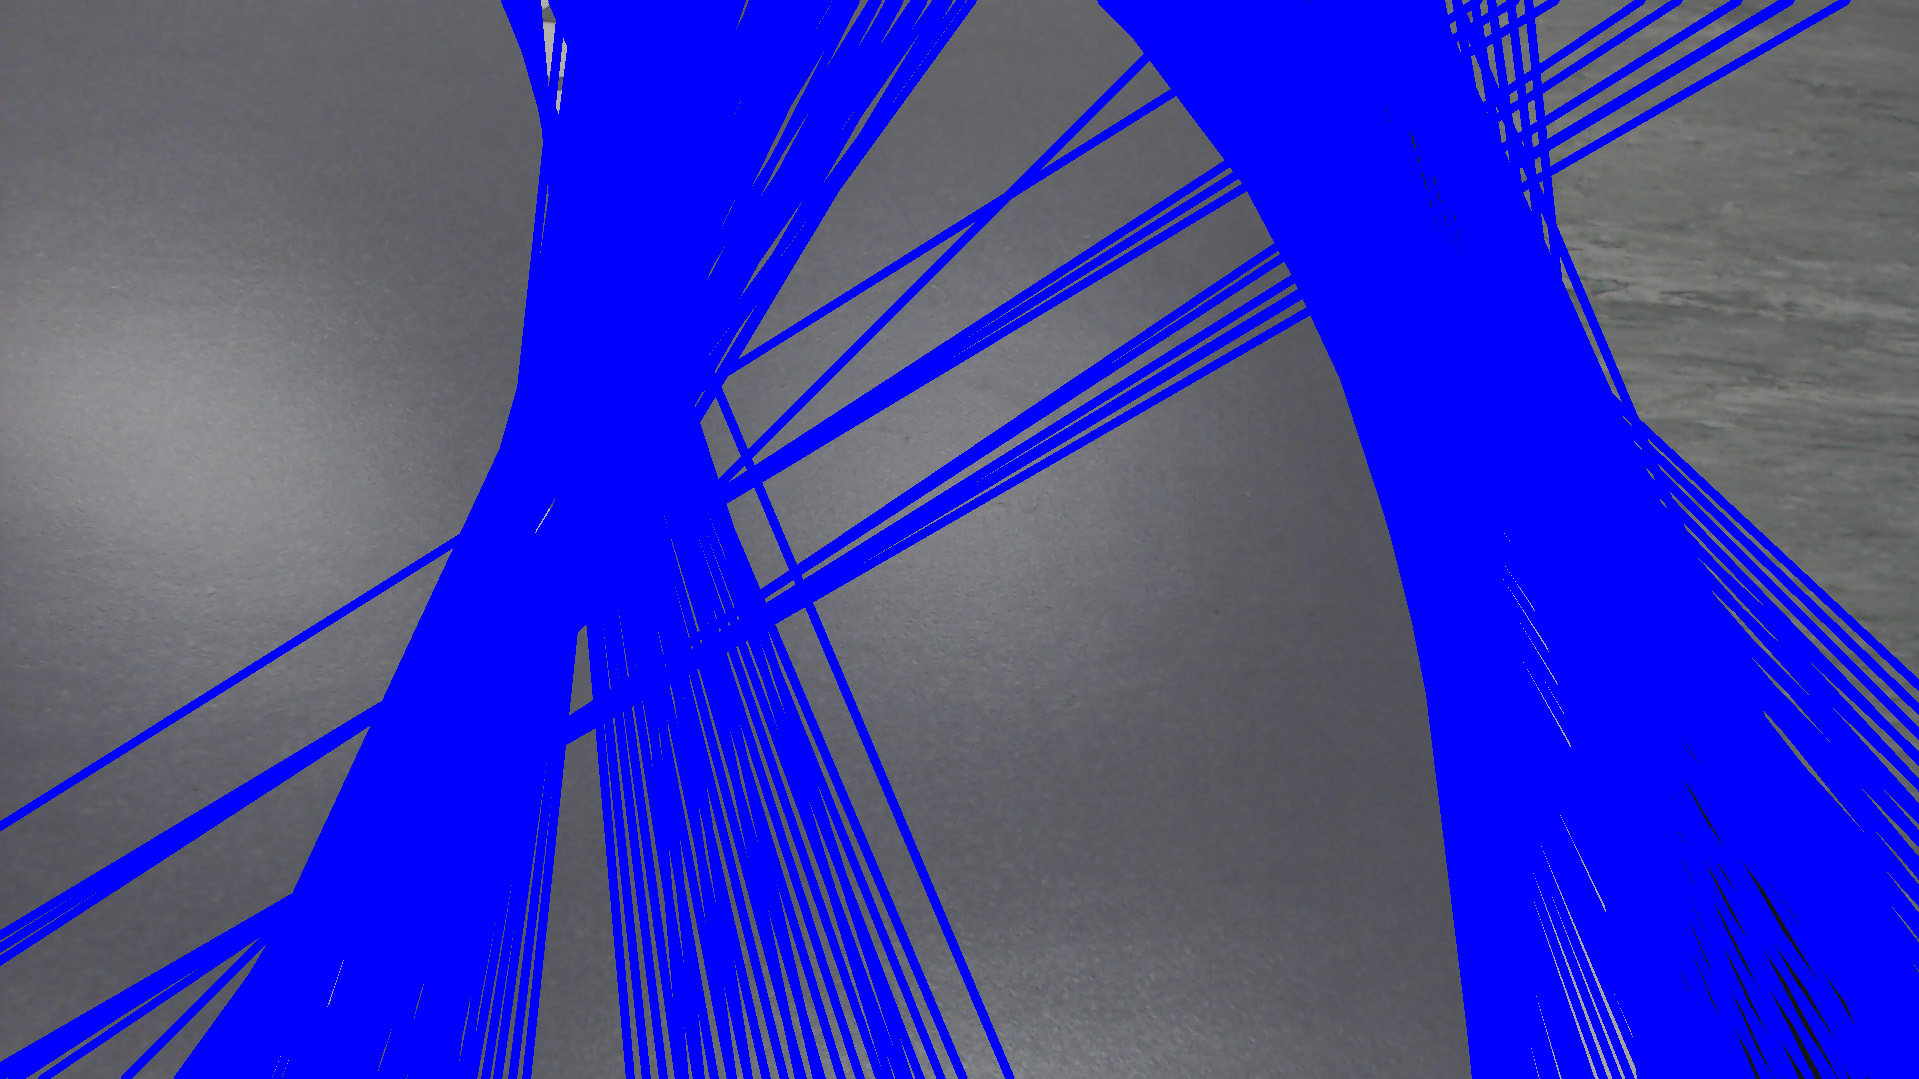
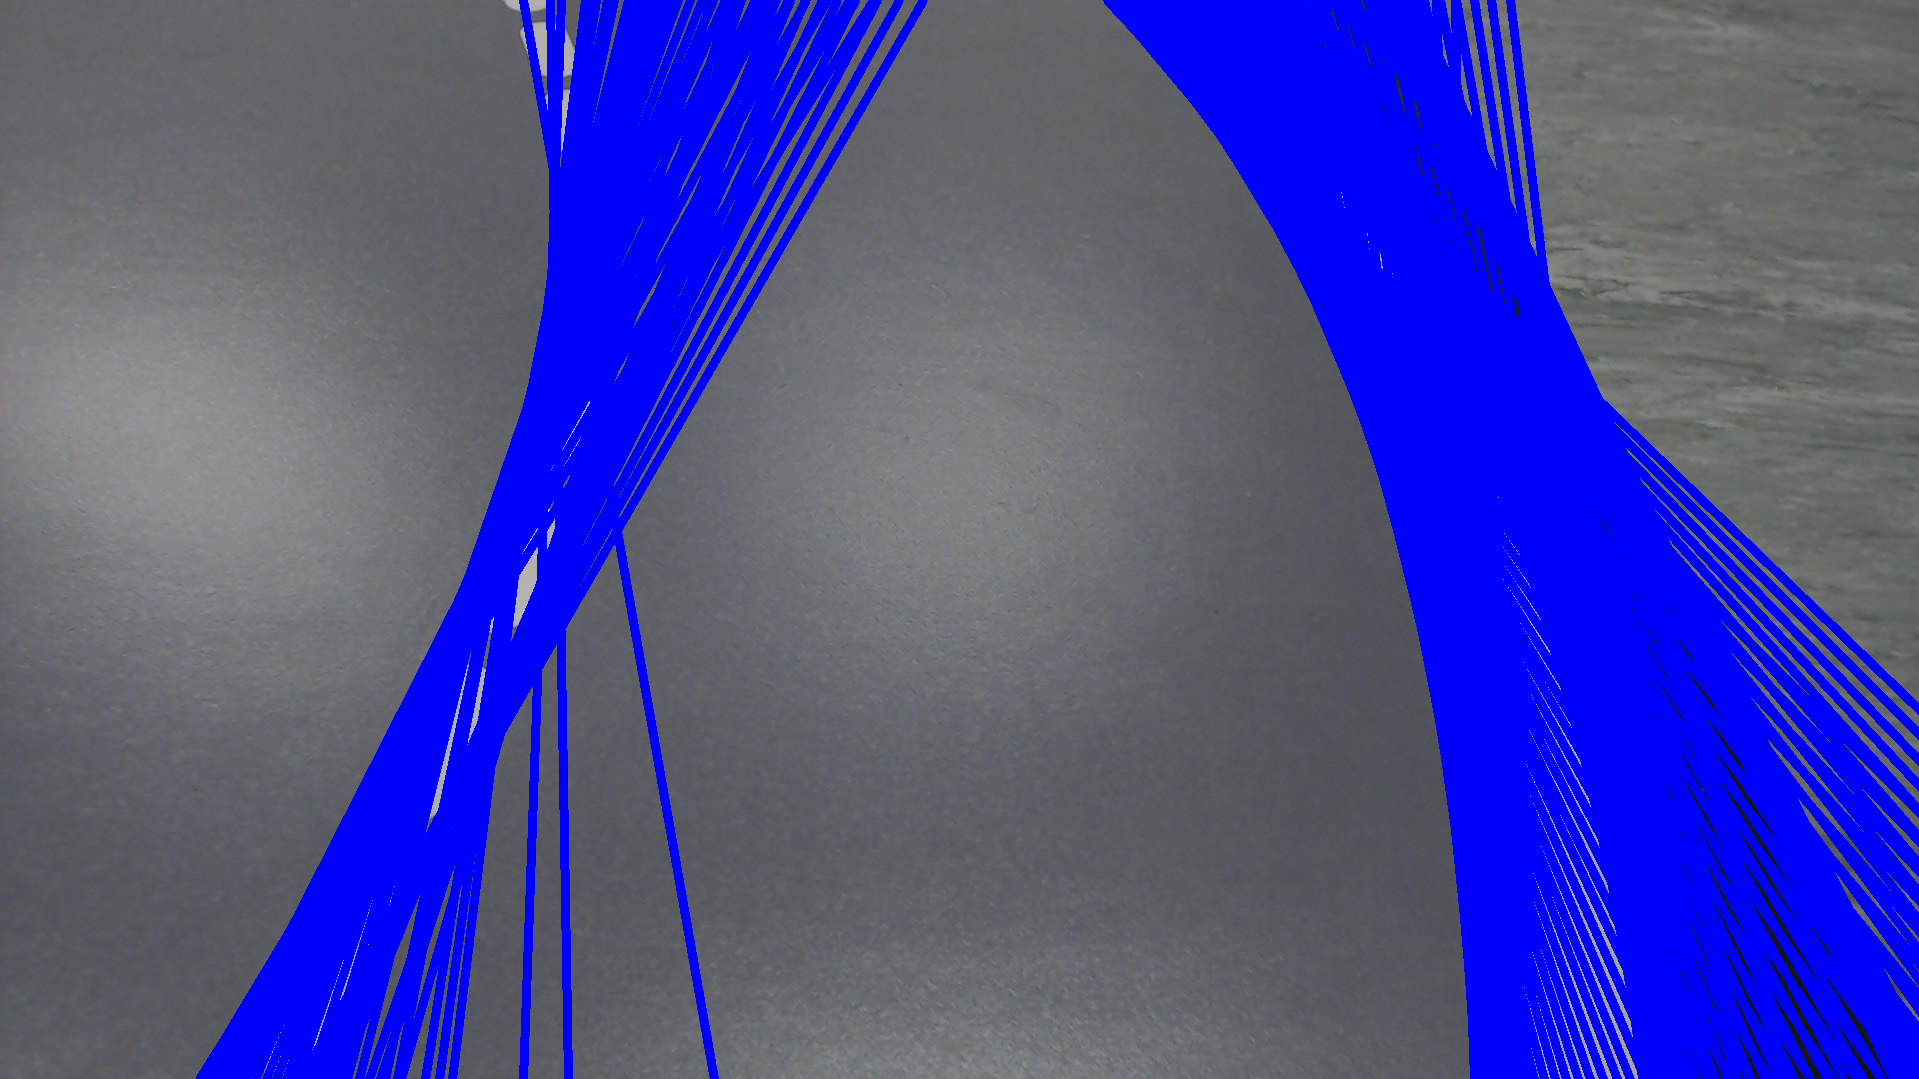
Now we are able to get the line vector coordinates generated by laneimages.cpp, from here the plan is to use this information to generate an instruction for the car.

diff --git a/Capstone/ImageRec/LaneDetectionTests/laneimages.cpp b/Capstone/ImageRec/LaneDetectionTests/laneimages.cpp
@@ -1,11 +1,12 @@
-/*---------------------------------------------------------------------*\
-	Lane Detection
-	Edits(2017-02-14)==>Nabil Hamza
+/*---------------------------Lane Detection---------------------------*\
+	Edits By ==> Nabil Hamza
 			
 	For laneimages.cpp run:
-	g++ `pkg-config --libs opencv` laneimages.cpp -o laneimages
-<<<<<<< HEAD
-<<<<<<< HEAD
+	g++ `pkg-config --cflags --libs opencv` laneimages.cpp -o laneimages
+	OR
+	g++ -O2 `pkg-config --cflags --libs opencv` laneimages.cpp -o laneimages ==> Optimized
+	
+	Execution:
 	./laneimages original.bmp ==> Processing existing frame
 	OR
 	./laneimages ==> Capturing frame
@@ -15,21 +16,7 @@
 	image processing steps
 
 	Probably will look into a more robust algorithm in the future
-=======
-=======
->>>>>>> dbfbbcb5617a4d5d2e200ad36efea2f0fc2bb8f7
-	./laneimages original.bmp
-
-	You can use any picture for the original image, and in the laneimages.cpp file
-	There are some commented imwrite() functions you can uncomment to see the 
-	image proccessing steps
-
-	Probably will look into a more roubust alcorithim in the future
-<<<<<<< HEAD
->>>>>>> dbfbbcb5617a4d5d2e200ad36efea2f0fc2bb8f7
-=======
->>>>>>> dbfbbcb5617a4d5d2e200ad36efea2f0fc2bb8f7
-\*---------------------------------------------------------------------*/
+\*--------------------------------------------------------------------*/
 
 #include <opencv2/opencv.hpp>
 #include "opencv2/imgcodecs.hpp"
@@ -40,17 +27,18 @@
 #include <iostream>
 #include <vector>
 #include <stdio.h>
-#include "linefinder.h"
+#include "linefinder.h" //Used for HoughP and 
 
 #define PI 3.1415926
 
 using namespace cv;
 
 int main(int argc, char* argv[]) {
-	int houghVote = 200;
+	
+	//-----------------Capture & Prepare Image------------------//
 	// Load the image file and check for success
 	
-	/*
+	/* // Capture from camera
 	VideoCapture capture(0);
     capture.set(CV_CAP_PROP_FRAME_WIDTH,640);
     capture.set(CV_CAP_PROP_FRAME_HEIGHT,480);
@@ -65,59 +53,54 @@ int main(int argc, char* argv[]) {
     }
 	*/
 	
-	
+	// Use stock image
 	Mat image = imread(argv[1]);
 	if(!image.data) {
 		std::cout << "Unable to open the image file" << std::endl;
 		return -1;
 	}
-	
-<<<<<<< HEAD
-<<<<<<< HEAD
+		
+	std::cout << image.cols << std::endl; // # Of cols in image
+	std::cout << image.rows << std::endl; // # Of rows in image
 	
 	int top = 0;
     int left = 0;
     int width = image.cols - 1;
     int height = image.rows - 1;
 	
-	std::cout << image.cols << std::endl; // # Of cols in image
-	std::cout << image.rows << std::endl; // # Of rows in image
-	
 	Rect roi(top,left,width,height);// set the ROI for the image
-=======
-	Rect roi(0,image.cols/3,image.cols-1,image.rows - image.cols/3);// set the ROI for the image
->>>>>>> dbfbbcb5617a4d5d2e200ad36efea2f0fc2bb8f7
-=======
-	Rect roi(0,image.cols/3,image.cols-1,image.rows - image.cols/3);// set the ROI for the image
->>>>>>> dbfbbcb5617a4d5d2e200ad36efea2f0fc2bb8f7
 	Mat imgROI = image(roi);
 	
 	// Canny algorithm
     Mat contours;
-<<<<<<< HEAD
-<<<<<<< HEAD
     Canny(imgROI,contours,150,350);
     Mat contoursInv;
     threshold(contours,contoursInv,128,255,THRESH_BINARY_INV);
 	
 	imwrite("contour.png", contoursInv);
-	//---------------------------------------------------------//
+	//--------------------Hough Transform-----------------------//
 	std::vector<Vec2f> lines;
+	int houghVote = 50; // HoughLines threshold value (higher ==> less lines, lower ==> more lines)
 	
-	//if (houghVote < 1 or lines.size() > 2){ // we lost all lines. reset 
-		//houghVote = 200; 
-	//}
-	//else{ houghVote += 25;} 
-	//while(lines.size() < 5 && houghVote > 0){
-		houghVote = 30; 
+	/* // Loop for determining proper houghVote
+	if (houghVote < 1 or lines.size() > 2){ // we lost all lines. reset 
+		houghVote = 200; 
+	}
+	else{ houghVote += 25;} 
+	while(lines.size() < 5 && houghVote > 0){
+		houghVote = 100; 
 		HoughLines(contours,lines,1,PI/180, houghVote);
-		//houghVote -= 5;
-	//}
+		houghVote -= 5;
+	}
+	*/
+	
+	HoughLines(contours,lines,1,PI/180, houghVote);
+	
 	std::cout << houghVote << "\n";
 	Mat result(imgROI.size(),CV_8U,Scalar(255));
 	imgROI.copyTo(result);
 
-   // Draw the limes
+    // Draw the limes
 	std::vector<Vec2f>::const_iterator it= lines.begin();
 	Mat hough(imgROI.size(),CV_8U,Scalar(0));
 	while (it!=lines.end()) {
@@ -125,7 +108,8 @@ int main(int argc, char* argv[]) {
 		float rho= (*it)[0];   // first element is distance rho
 		float theta= (*it)[1]; // second element is angle theta
 		
-		if ( theta > (5*(PI/180)) && theta < (75*(PI/180)) || theta < (175*(PI/180)) && theta > (105*(PI/180)) ) { // filter to remove vertical and horizontal lines
+		// filter to remove vertical and horizontal lines
+		if ( theta > (0*(PI/180)) && theta < (75*(PI/180)) || theta < (180*(PI/180)) && theta > (105*(PI/180)) ) { 
 		
 			// point of intersection of the line with first row
 			Point pt1(rho/cos(theta),0);        
@@ -136,158 +120,63 @@ int main(int argc, char* argv[]) {
 			line( hough, pt1, pt2, Scalar(255), 8);
 		}
 
-		//std::cout << "line: (" << rho << "," << theta << ")\n"; 
+		//std::cout << "Hough line: (" << rho << "," << theta << ")\n"; 
 		++it;
 	}
 	
 	imwrite("hough.png", result);
-	//----------------------------------------------------------//
-	
+	//---------------Probabilistic Hough Transform--------------//
 	// Create LineFinder instance
 	LineFinder ld;
 
-   // Set probabilistic Hough parameters
+    // Set probabilistic Hough parameters
 	ld.setLineLengthAndGap(60,10);
-	ld.setMinVote(4);
+	ld.setMinVote(2);
 
-   // Detect lines
+    // Detect lines
+	
 	std::vector<Vec4i> li= ld.findLines(contours);
 	Mat houghP(imgROI.size(),CV_8U,Scalar(0));
-	ld.setShift(0);
+	ld.setShift(left);
+	//std::cout << "HoughP Lines" << "\n";
 	ld.drawDetectedLines(houghP);
-	std::cout << "First Hough" << "\n";
-
-	imwrite("houghP.png", houghP);
-	//----------------------------------------------------------//
 	
-   // bitwise AND of the two hough images
+	
+	imwrite("houghP.png", houghP);
+	//-------------Bitwise Of Hough Transformations-------------//
+	// Bitwise AND of the two hough images
 	bitwise_and(houghP,hough,houghP);
 	Mat houghPinv(imgROI.size(),CV_8U,Scalar(0));
 	Mat dst(imgROI.size(),CV_8U,Scalar(0));
 	threshold(houghP,houghPinv,150,255,THRESH_BINARY_INV); // threshold and invert to black lines
 	
 	imwrite("houghPinv.png", houghP);
-	//----------------------------------------------------------//
-	
+	//----------------------Processed Image---------------------//
+	//Second Canny transform
 	Canny(houghPinv,contours,150,350);
 	li= ld.findLines(contours);
-   // Display Canny image
 
 	imwrite("contours2.png", contoursInv);
-	//----------------------------------------------------------//
-
-	   // Set probabilistic Hough parameters
+	
+	// Set probabilistic Hough parameters
 	ld.setLineLengthAndGap(5,2);
 	ld.setMinVote(1);
 	ld.setShift(left);
+	//std::cout << "Original Bitwise" << "\n";
 	ld.drawDetectedLines(image);
-		
-	//std::stringstream stream;
-	//stream << "Lines Segments: " << lines.size();
-	//putText(image, stream.str(), Point(10,image.rows-10), 2, 0.8, Scalar(0,0,255),0);
-		
-	imwrite("processed.png", image);
-=======
-    Canny(imgROI,contours,50,350);
-    Mat contoursInv;
-    threshold(contours,contoursInv,128,255,THRESH_BINARY_INV);
 	
-=======
-    Canny(imgROI,contours,50,350);
-    Mat contoursInv;
-    threshold(contours,contoursInv,128,255,THRESH_BINARY_INV);
-	
->>>>>>> dbfbbcb5617a4d5d2e200ad36efea2f0fc2bb8f7
-	//imwrite("contour.bmp", contoursInv);
-	//---------------------------------------------------------//
-	std::vector<Vec2f> lines;
-	if (houghVote < 1 or lines.size() > 2){ // we lost all lines. reset 
-		houghVote = 200; 
-	}
-	else{ houghVote += 25;} 
-	while(lines.size() < 5 && houghVote > 0){
-		HoughLines(contours,lines,1,PI/180, houghVote);
-		houghVote -= 5;
-	}
-	std::cout << houghVote << "\n";
-	Mat result(imgROI.size(),CV_8U,Scalar(255));
-	imgROI.copyTo(result);
-
-   // Draw the limes
-	std::vector<Vec2f>::const_iterator it= lines.begin();
-	Mat hough(imgROI.size(),CV_8U,Scalar(0));
-	while (it!=lines.end()) {
-
-		float rho= (*it)[0];   // first element is distance rho
-		float theta= (*it)[1]; // second element is angle theta
-		
-		if ( theta > 0.09 && theta < 1.48 || theta < 3.14 && theta > 1.66 ) { // filter to remove vertical and horizontal lines
-		
-			// point of intersection of the line with first row
-			Point pt1(rho/cos(theta),0);        
-			// point of intersection of the line with last row
-			Point pt2((rho-result.rows*sin(theta))/cos(theta),result.rows);
-			// draw a white line
-			line( result, pt1, pt2, Scalar(255), 8); 
-			line( hough, pt1, pt2, Scalar(255), 8);
-		}
-
-		//std::cout << "line: (" << rho << "," << theta << ")\n"; 
-		++it;
+	std::cout << "Gathered Bitwise" << "\n";
+	for (int i=0; i<li.size(); ++i){
+		std::cout << "Bitwise Line "<< i << ": [["<< li[i][0] <<"," << li[i][1]+left << "],[" << li[i][2] << "," << li[i][3]+left << "]]\n";
 	}
 	
-	//imwrite("hough.bmp", result);
-	//----------------------------------------------------------//
-	
-	// Create LineFinder instance
-	LineFinder ld;
-
-   // Set probabilistic Hough parameters
-	ld.setLineLengthAndGap(60,10);
-	ld.setMinVote(4);
-
-   // Detect lines
-	std::vector<Vec4i> li= ld.findLines(contours);
-	Mat houghP(imgROI.size(),CV_8U,Scalar(0));
-	ld.setShift(0);
-	ld.drawDetectedLines(houghP);
-	std::cout << "First Hough" << "\n";
-
-	//imwrite("houghP.bmp", houghP);
-	//----------------------------------------------------------//
-	
-   // bitwise AND of the two hough images
-	bitwise_and(houghP,hough,houghP);
-	Mat houghPinv(imgROI.size(),CV_8U,Scalar(0));
-	Mat dst(imgROI.size(),CV_8U,Scalar(0));
-	threshold(houghP,houghPinv,150,255,THRESH_BINARY_INV); // threshold and invert to black lines
-	
-	//imwrite("houghPinv.bmp", houghP);
-	//----------------------------------------------------------//
-	
-	Canny(houghPinv,contours,100,350);
-	li= ld.findLines(contours);
-   // Display Canny image
-
-	//imwrite("contours2.bmp", contoursInv);
-	//----------------------------------------------------------//
-
-	   // Set probabilistic Hough parameters
-	ld.setLineLengthAndGap(5,2);
-	ld.setMinVote(1);
-	ld.setShift(image.cols/3);
-	ld.drawDetectedLines(image);
-		
+	/* // Write # of Lines on Image
 	std::stringstream stream;
 	stream << "Lines Segments: " << lines.size();
-	
 	putText(image, stream.str(), Point(10,image.rows-10), 2, 0.8, Scalar(0,0,255),0);
-		
-	imwrite("processed.bmp", image);
-<<<<<<< HEAD
->>>>>>> dbfbbcb5617a4d5d2e200ad36efea2f0fc2bb8f7
-=======
->>>>>>> dbfbbcb5617a4d5d2e200ad36efea2f0fc2bb8f7
+	*/
+	
+	imwrite("processed.png", image);
 	//----------------------------------------------------------//
 	return 0;
 }

diff --git a/Capstone/ImageRec/CaptureImageTests/boneCV/boneCV.cpp b/Capstone/ImageRec/CaptureImageTests/boneCV/boneCV.cpp
@@ -17,8 +17,8 @@ using namespace cv;
 int main()
 {
     VideoCapture capture(0);
-    capture.set(CV_CAP_PROP_FRAME_WIDTH,1920);
-    capture.set(CV_CAP_PROP_FRAME_HEIGHT,1080);
+    capture.set(CV_CAP_PROP_FRAME_WIDTH,640);
+    capture.set(CV_CAP_PROP_FRAME_HEIGHT,480);
     if(!capture.isOpened()){
 	    cout << "Failed to connect to the camera." << endl;
     }

diff --git a/Capstone/ImageRec/LaneDetectionTests/linefinder.h b/Capstone/ImageRec/LaneDetectionTests/linefinder.h
@@ -105,7 +105,7 @@ class LineFinder {
 			  cv::Point pt2((*it2)[2],(*it2)[3]+shift);
 
 			  cv::line( image, pt1, pt2, color, 6 );
-		std::cout << " HoughP line: ("<< pt1 <<"," << pt2 << ")\n"; 
+		//std::cout << "HoughP line: ("<< pt1 <<"," << pt2 << ")\n"; 
 			  ++it2;	
 		  }
 	  }
